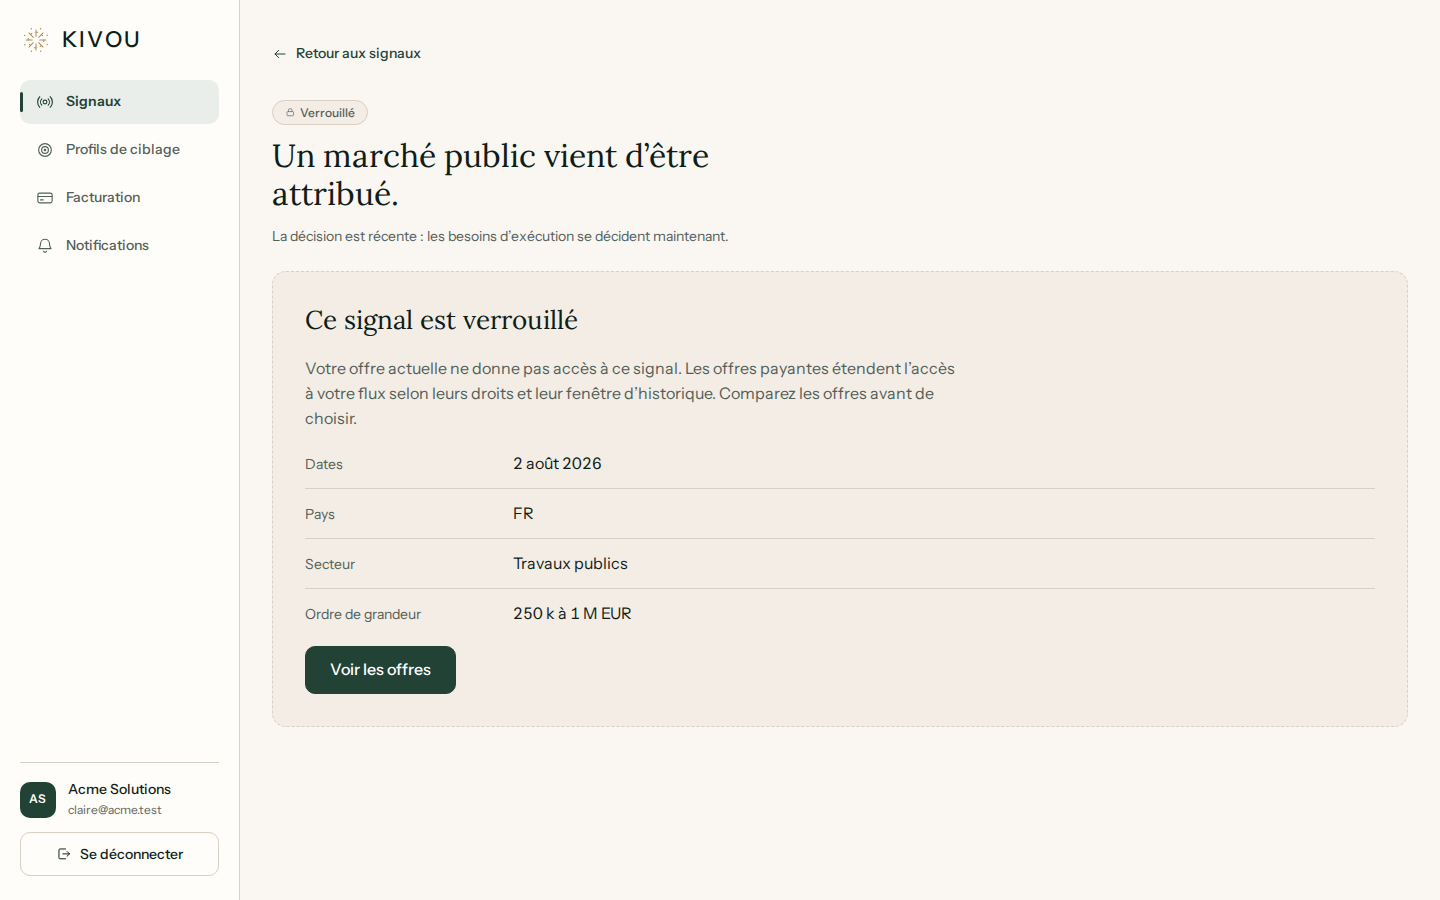
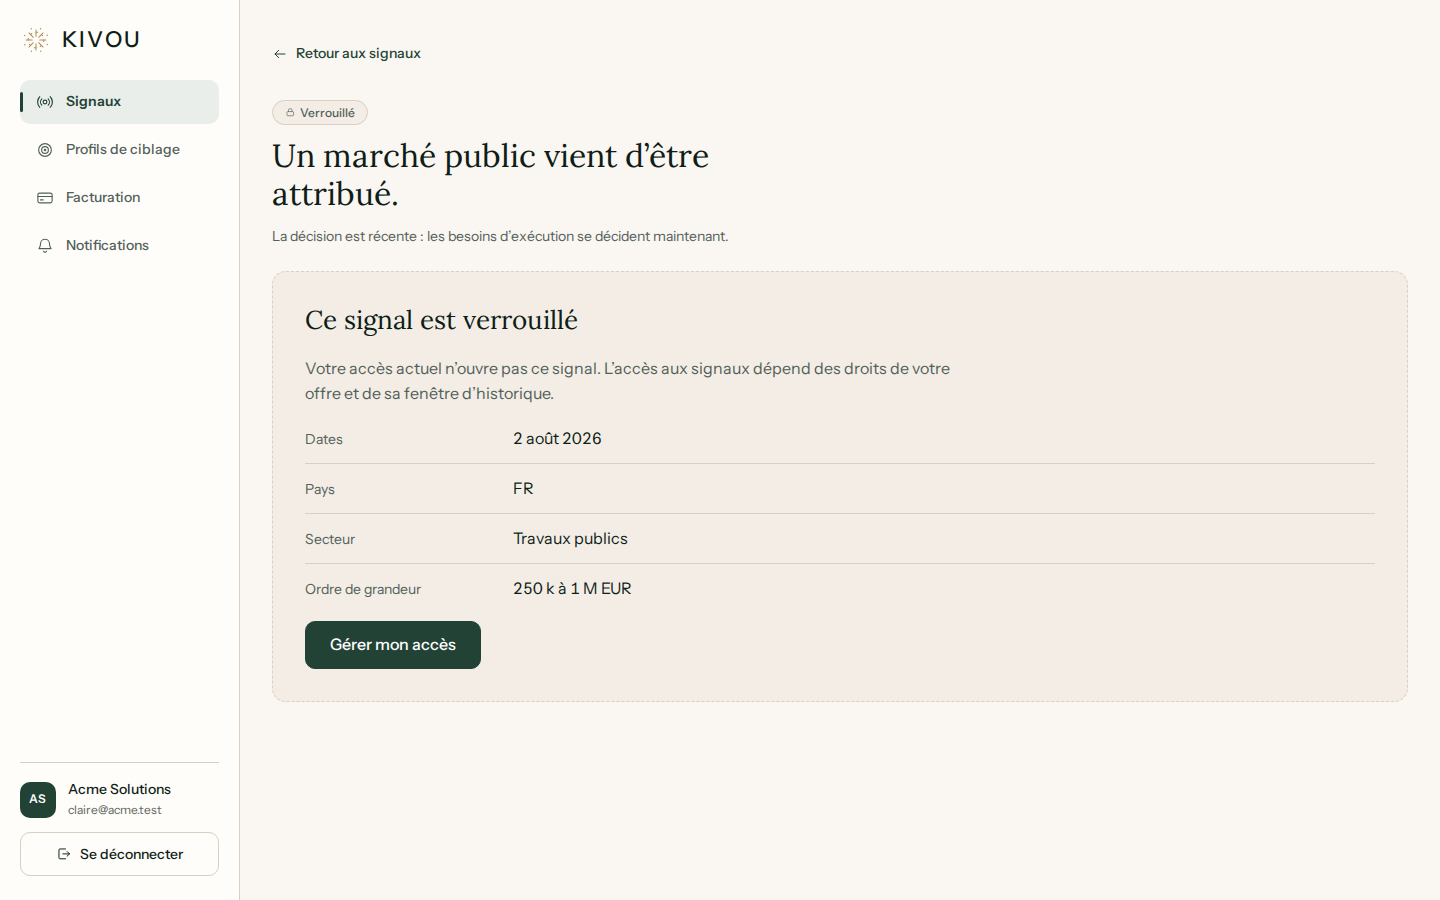
docs(web): refresh the three affected P0-03 captures
Teaser verrouillé, détail verrouillé et retour depuis le paiement : les trois
vues dont la copy vient de changer. Les dix-sept autres sont identiques au bit
près.

Les assertions de contenu suivent : « réservés aux offres payantes »,
« offres payantes », « Comparez les offres », « débité » et « n'a pas changé »
rejoignent les interdits, et le CTA attendu devient « Gérer mon accès ».

Changed region(s): [[0.1875, 0.4044, 0.6562, 0.7778]]

diff --git a/docs/reports/p0-03-eval/README.md b/docs/reports/p0-03-eval/README.md
@@ -91,12 +91,20 @@ les vues : DH non, CT non, `h1` = 1.
 
 | Vue | Fichier | Dim. | Lang. | État | `h1` | CTA attendu | Interdits vérifiés |
 |---|---|---|---|---|---|---|---|
-| Feed verrouillé | `paywall-feed-verrouille-fr-1440x900.png` | 1440×900 | FR | teaser `locked` | Signaux récents | Déverrouiller Kivou | nom du gagnant absent |
+| Feed verrouillé | `paywall-feed-verrouille-fr-1440x900.png` | 1440×900 | FR | teaser `locked` | Signaux récents | Gérer mon accès | nom du gagnant, « réservés aux offres payantes » |
 | Billing atteint depuis le teaser | `paywall-vers-billing-fr-1440x900.png` | 1440×900 | FR | `choose_plan` | Facturation | Choisir Pro | portail, récupération |
-| Détail verrouillé | `paywall-detail-verrouille-fr-1440x900.png` | 1440×900 | FR | détail `locked` | Un marché public vient d'être attribué. | Voir les offres | gagnant, source |
+| Détail verrouillé | `paywall-detail-verrouille-fr-1440x900.png` | 1440×900 | FR | détail `locked` | Un marché public vient d'être attribué. | Gérer mon accès | gagnant, source, « offres payantes », « Comparez les offres » |
 
 Seule la **clé** du signal traverse le paywall, dans l'état de navigation. Ni
 entreprise, ni montant, ni besoin, ni preuve.
+
+**Copy vraie pour TOUS les plans.** Le teaser disait « réservés aux offres
+payantes » — faux dès qu'un compte payant rencontre un signal verrouillé par la
+fenêtre d'historique de son plan, ce qui est un cas normal. Il lisait alors
+qu'il devait acheter ce qu'il paie déjà. La copy est désormais neutre — « Ces
+informations ne sont pas incluses dans votre accès actuel. » — et le CTA
+universel, « Gérer mon accès », parce que `/app/billing` peut légitimement
+n'ouvrir qu'un portail et aucune grille.
 
 ### `choose_plan` — la seule action qui autorise un paiement
 
@@ -136,7 +144,7 @@ vrais, et c'est `billing_action` qui décide de l'action, pas eux.
 | Délai dépassé | `checkout-timeout-fr-1440x900.png` | 1440×900 | FR | 45 s sans confirmation | Vérification de votre accès | Réessayer la vérification | Accès payant actif |
 | Accès actif | `checkout-acces-actif-fr-1440x900.png` | 1440×900 | FR | plan payant confirmé | Accès payant actif | Accéder à mes signaux | **Paiement confirmé**, Revenir à ce signal |
 | Retour au signal | `checkout-retour-au-signal-fr-1440x900.png` | 1440×900 | FR | intention mémorisée | Accès payant actif | Revenir à ce signal + Voir tous mes signaux | nom du gagnant |
-| Annulation | `checkout-annulation-fr-1440x900.png` | 1440×900 | FR | paiement interrompu | Paiement interrompu | Revenir aux offres | échec, refusé |
+| Retour depuis le paiement | `checkout-annulation-fr-1440x900.png` | 1440×900 | FR | retour, état inconnu | Retour depuis le parcours de paiement | Voir ma facturation | échec, refusé, « débité », « n'a pas changé » |
 
 La vue « délai dépassé » est obtenue par une attente **réelle** de 48 secondes,
 sans horloge simulée : c'est le comportement du sondage borné qui est photographié.
@@ -144,6 +152,14 @@ sans horloge simulée : c'est le comportement du sondage borné qui est photogra
 La vue « retour au signal » suit le parcours complet — teaser verrouillé →
 facturation → paiement ouvert → retour — parce que c'est le seul chemin qui
 écrit réellement l'intention.
+
+**La page de retour ne sait presque rien, et sa copy s'arrête là.** C'est une
+URL que n'importe qui peut ouvrir, y compris un client payant depuis des mois.
+Elle ne reçoit rien de Stripe et n'interroge rien : elle ne pouvait donc
+affirmer ni qu'un paiement avait été interrompu, ni qu'aucun débit n'avait eu
+lieu, ni que l'offre n'avait pas changé — trois assertions qu'elle portait.
+Elle dit maintenant ce qu'elle sait, et renvoie à la facturation, seule surface
+qui interroge réellement l'état de l'abonnement.
 
 ## Mesures
 
